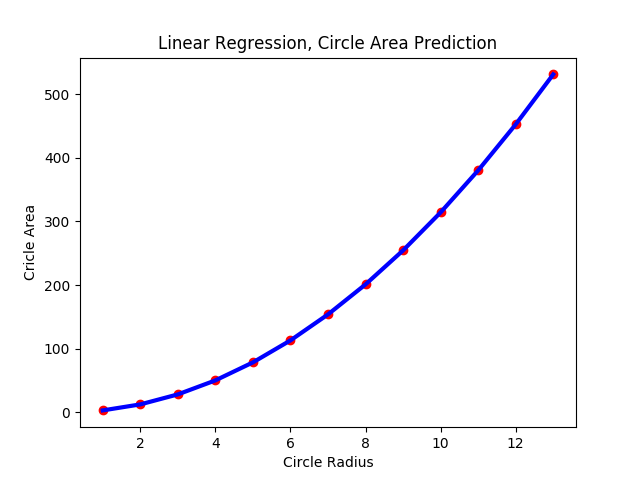
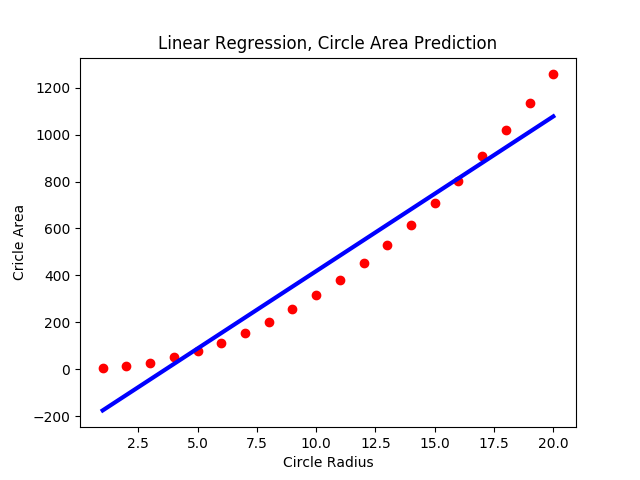
add better graph

diff --git a/linearRegression.py b/linearRegression.py
@@ -1,7 +1,4 @@
 from sklearn.linear_model import LinearRegression
-from sklearn.model_selection import train_test_split 
-from sklearn import metrics  
-
 import numpy as np
 import matplotlib.pyplot as plt
 
@@ -38,26 +35,19 @@ def getCircleArea(radius):
 def circleAreaPrediction(predRadius): 
 	RADIUS_X = []  
 	AREA_Y = []
-	for num in range(1,14): 
+	for num in range(1,21): 
 		RADIUS_X.append([num])
 		AREA_Y.append(getCircleArea(num))#
 	
     #Create and Train our model 
 	model = LinearRegression()
-	#X_train, X_test, y_train, y_test = train_test_split(RADIUS_X, AREA_Y, test_size=0.2, random_state=0)   
 	model.fit(RADIUS_X,AREA_Y) 
-	 
-	#print X_train
-	#print y_train
-	print '******************************************************************************************************'
-	print "Circle r = ", predRadius ," A = " , model.predict([[predRadius]]) , " CA = ", getCircleArea(predRadius) 
-	print '******************************************************************************************************'
-
+	print "Circle r = ", predRadius ," A = " , model.predict([[predRadius]]) , " CA = ", getCircleArea(predRadius)
+	y = eval('model.coef_*RADIUS_X + model.intercept_') 
+	
     # we plot the independent variable (radius) on the x-axis and dependent variable (area) on the y-axis
 	plt.scatter(RADIUS_X, AREA_Y, color='red') 
-	plt.plot(RADIUS_X, AREA_Y, color='blue', linewidth=3) 
-	#plt.xticks(())
-	#plt.yticks(()) 
+	plt.plot(RADIUS_X, y, color='blue', linewidth=3) 
 	plt.xlabel("Circle Radius")
 	plt.ylabel("Cricle Area")
 	plt.title("Linear Regression, Circle Area Prediction") 

diff --git a/lr_test.py b/lr_test.py
@@ -1,0 +1,33 @@
+import matplotlib.pyplot as plt
+import numpy as np
+
+from sklearn.linear_model import LinearRegression
+
+house_price = [245, 312, 279, 308, 199, 219, 405, 324, 319, 255]
+size = [1400, 1600, 1700, 1875, 1100, 1550, 2350, 2450, 1425, 1700]
+size = np.array(size).reshape((-1, 1))
+
+
+#fitting into the model
+model = LinearRegression()
+model.fit(size, house_price)
+print('Coefficients: \n', model.coef_)
+print('intercept: \n', model.intercept_)
+
+#formula obtained for the trained model
+def graph(formula):
+   x = np.array(size) 
+   print x 
+   y = eval(formula)
+   print y 
+   plt.plot(x, y)
+
+#plotting the prediction line 
+graph('model.coef_*x + model.intercept_')
+print model.score(size, house_price)
+
+
+plt.scatter (size,house_price, color='black')
+plt.ylabel('house price')
+plt.xlabel('size of house')
+#plt.show()
